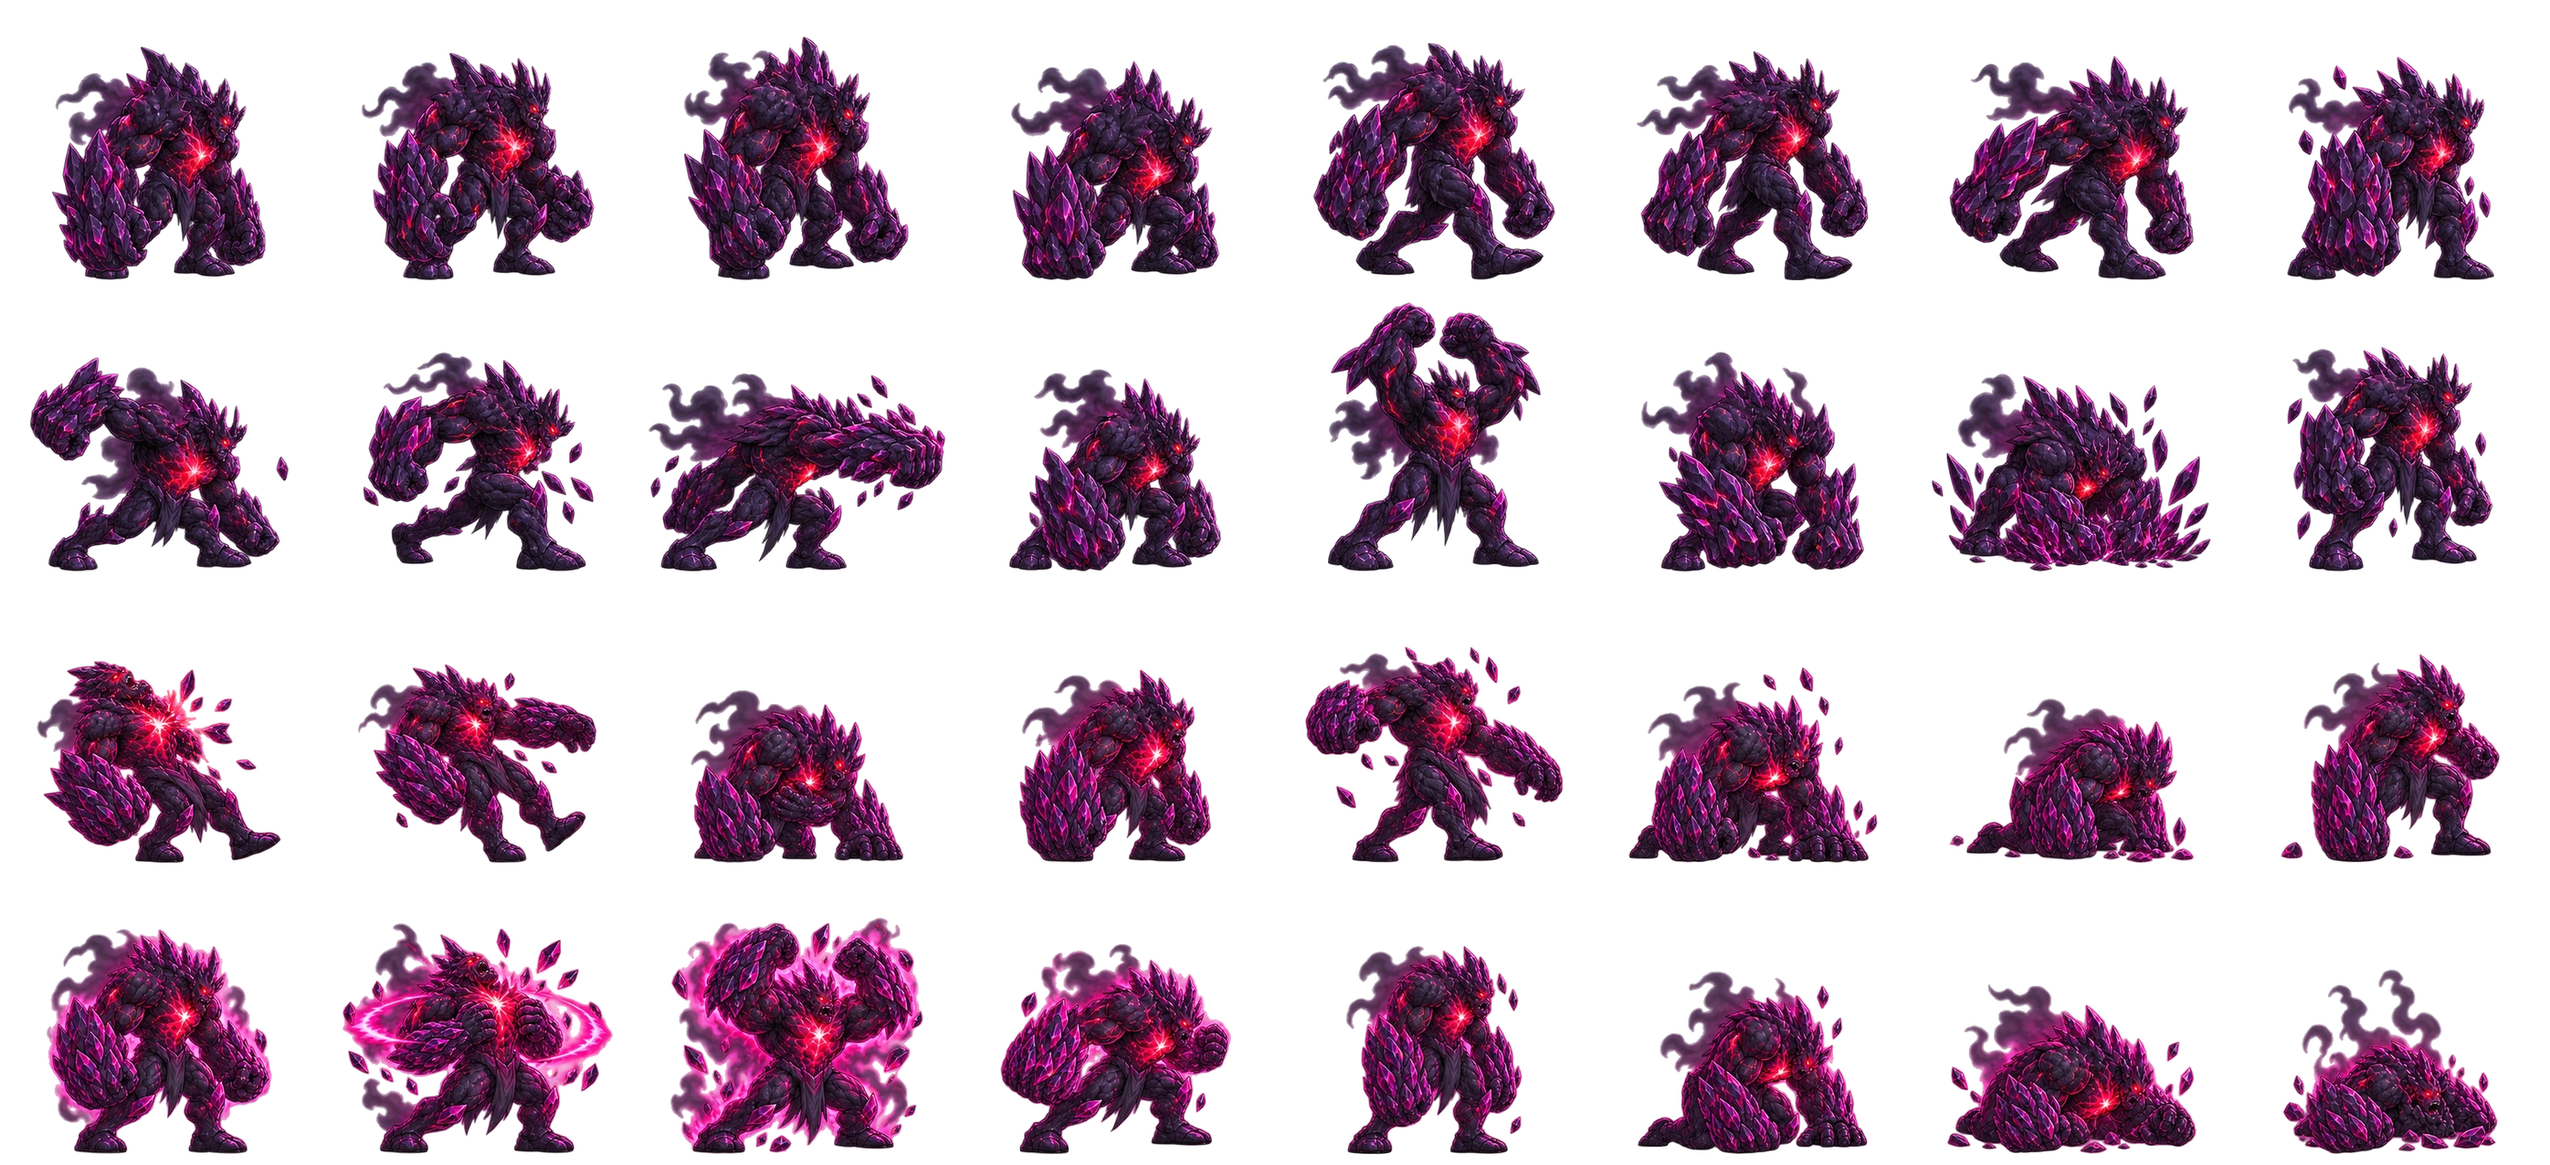
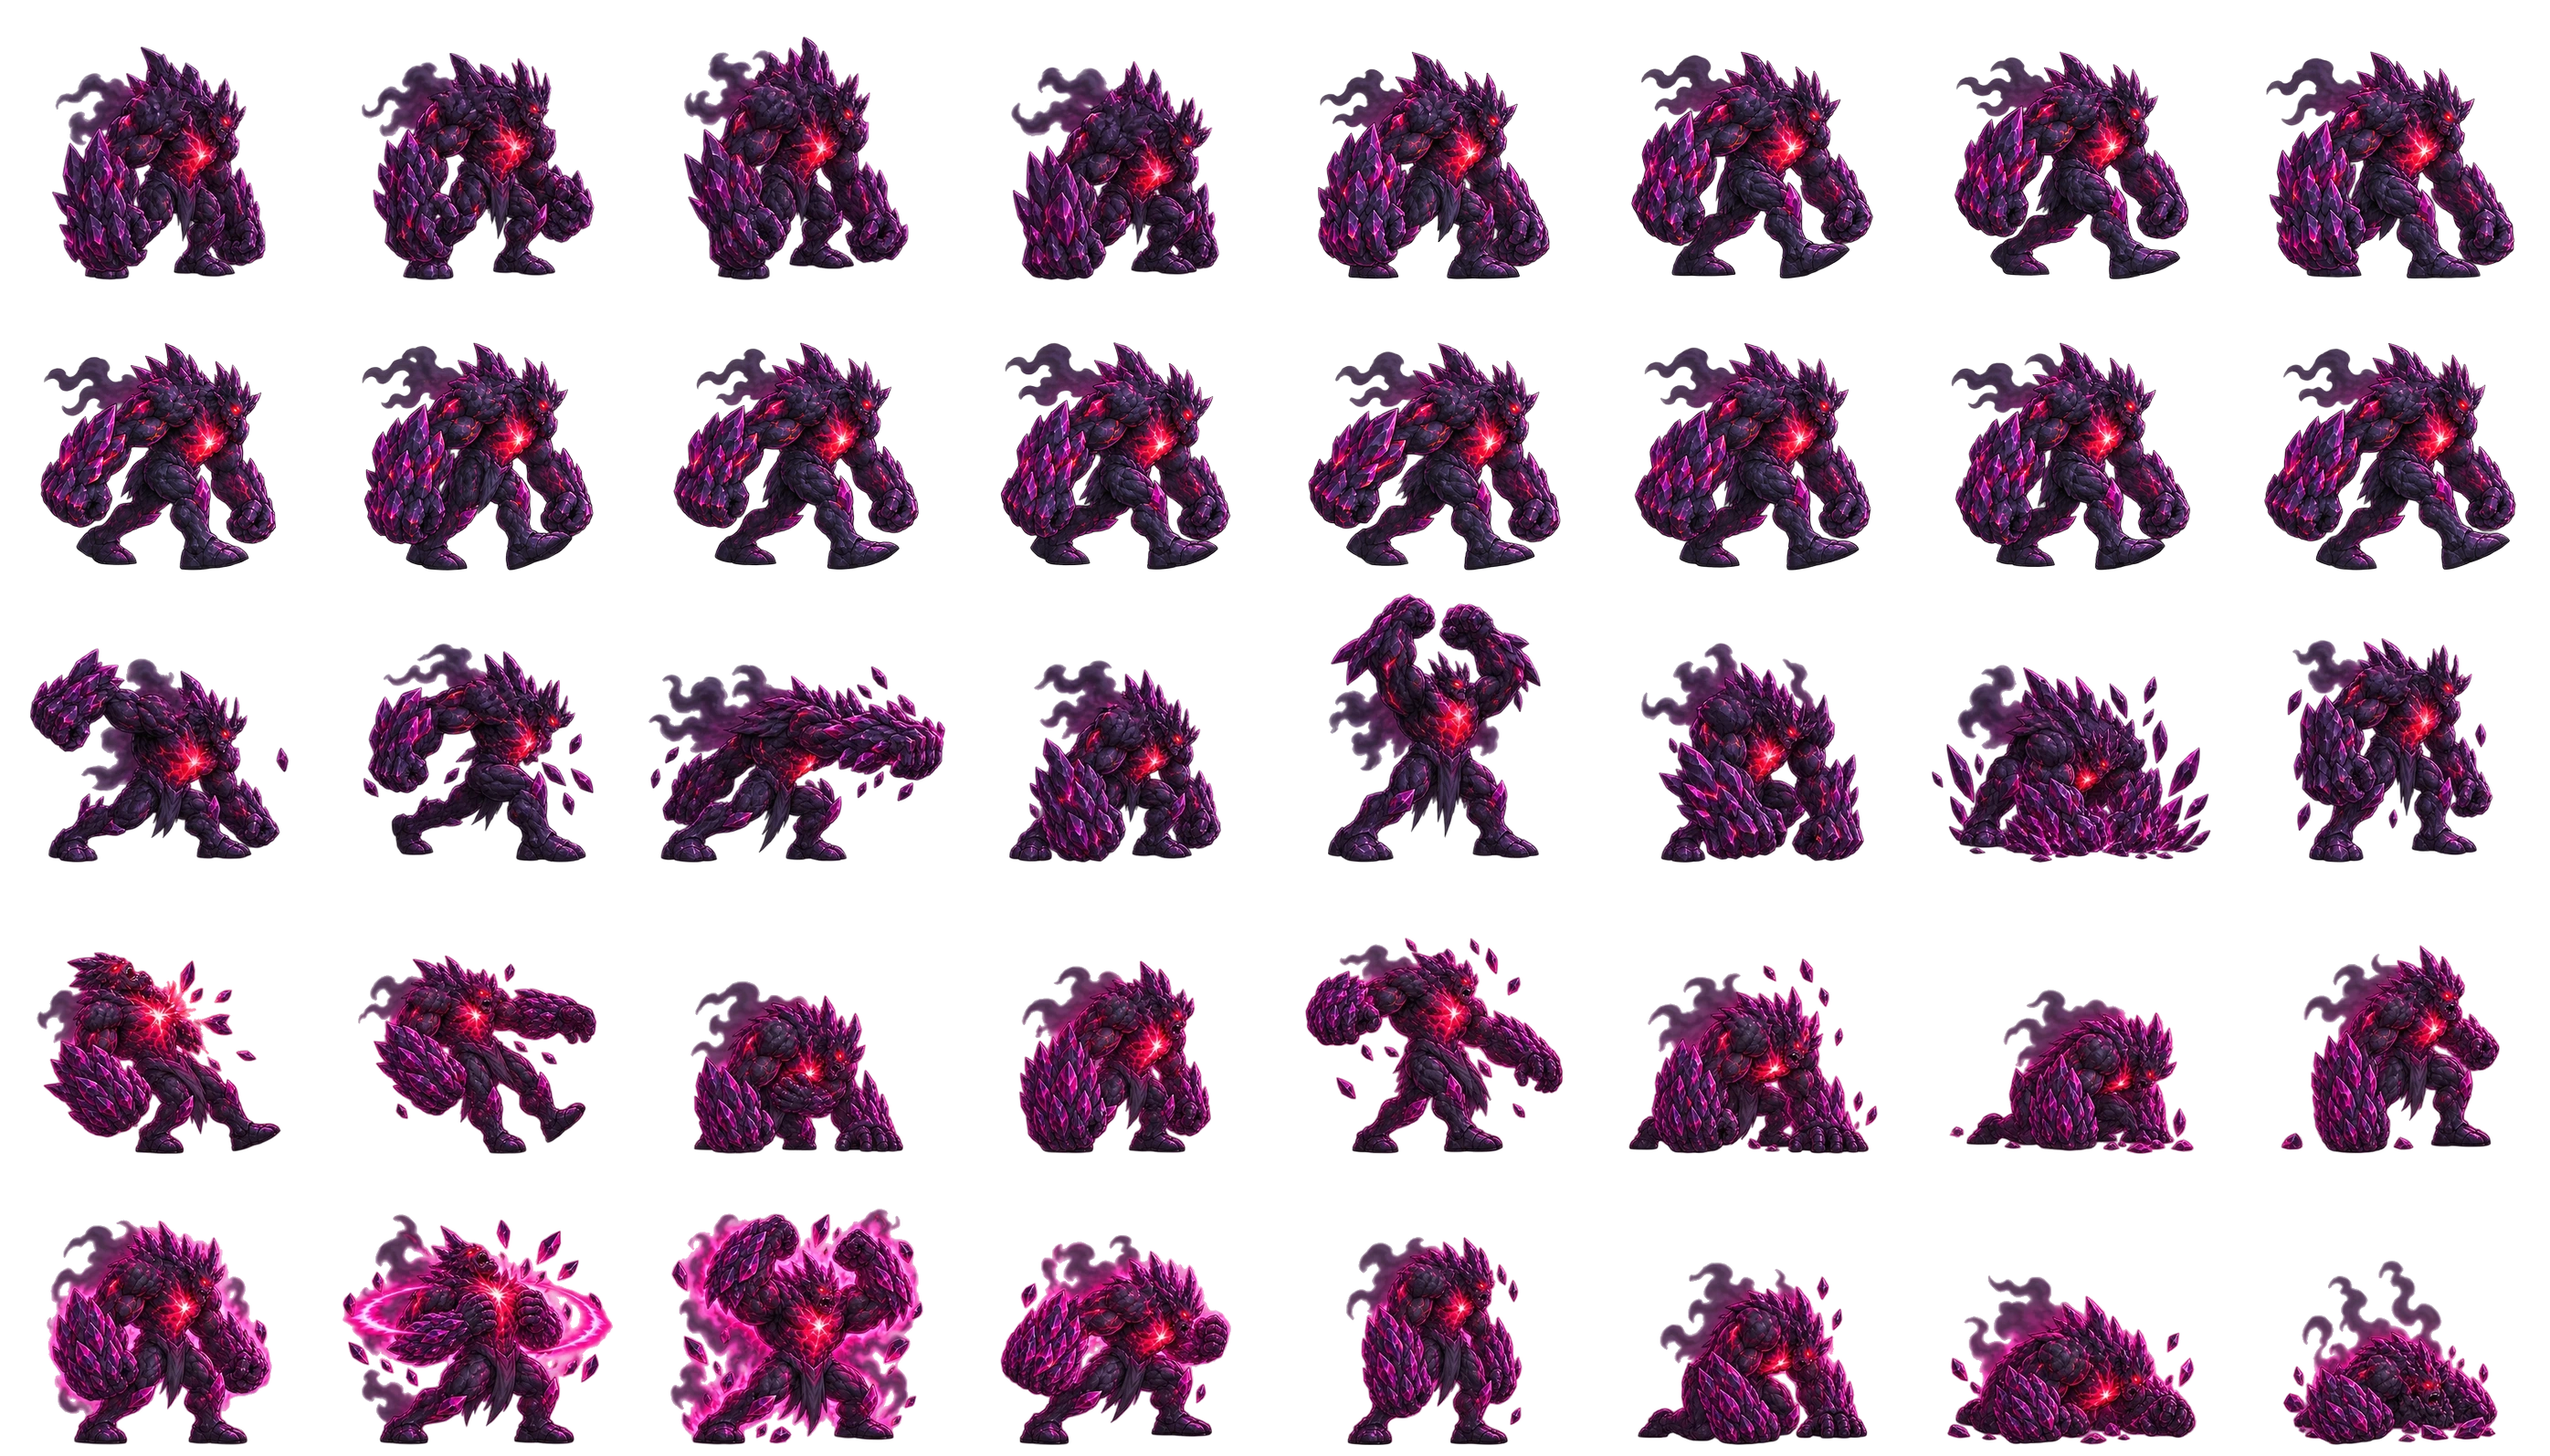
Brute 12-frame walk wired (Angelo approved the preview)
veil_form2 rebuilt 2792x1595 (40 frames): walk 4-15 at 12fps with the
approved 12-pose cycle, all later anims and aliases shifted +8.
Content h 248-249 matches gen h 248; feet line unchanged; shift checks
IoU 1.000. Validator PASS 1392 frames; live-verified in the harness:
phase 2 rises, state walk, veil_form2:walk registered with 12 frames.

diff --git a/src/assets/sprites.gen.ts b/src/assets/sprites.gen.ts
@@ -2761,84 +2761,84 @@ export const SPRITES = {
       },
       "walk": {
         "start": 4,
-        "end": 7,
-        "frameRate": 9,
+        "end": 15,
+        "frameRate": 12,
         "repeat": -1,
         "h": 248
       },
       "claw": {
-        "start": 8,
-        "end": 11,
+        "start": 16,
+        "end": 19,
         "frameRate": 10,
         "repeat": 0,
         "h": 228
       },
       "slam": {
-        "start": 12,
-        "end": 15,
+        "start": 20,
+        "end": 23,
         "frameRate": 10,
         "repeat": 0,
         "h": 244
       },
       "hurt": {
-        "start": 16,
-        "end": 19,
+        "start": 24,
+        "end": 27,
         "frameRate": 8,
         "repeat": 0,
         "h": 215
       },
       "stagger": {
-        "start": 20,
-        "end": 23,
+        "start": 28,
+        "end": 31,
         "frameRate": 8,
         "repeat": 0,
         "h": 222
       },
       "enrage": {
-        "start": 24,
-        "end": 27,
+        "start": 32,
+        "end": 35,
         "frameRate": 7,
         "repeat": 0,
         "h": 250
       },
       "dead": {
-        "start": 28,
-        "end": 31,
+        "start": 36,
+        "end": 39,
         "frameRate": 7,
         "repeat": 0,
         "h": 201
       },
       "shoot": {
-        "start": 8,
-        "end": 9,
+        "start": 16,
+        "end": 17,
         "frameRate": 10,
         "repeat": 0,
         "h": 228
       },
       "summon": {
-        "start": 14,
-        "end": 15,
+        "start": 22,
+        "end": 23,
         "frameRate": 10,
         "repeat": 0,
         "h": 228
       },
       "charge": {
-        "start": 8,
-        "end": 9,
+        "start": 16,
+        "end": 17,
         "frameRate": 10,
         "repeat": 0,
         "h": 228
       },
       "erupt": {
-        "start": 13,
-        "end": 15,
+        "start": 21,
+        "end": 23,
         "frameRate": 10,
         "repeat": 0,
         "h": 228
       },
       "attack": {
-        "start": 8,
-        "end": 11,
+        "start": 16,
+        "end": 19,
         "frameRate": 10,
         "repeat": 0,
         "h": 228
